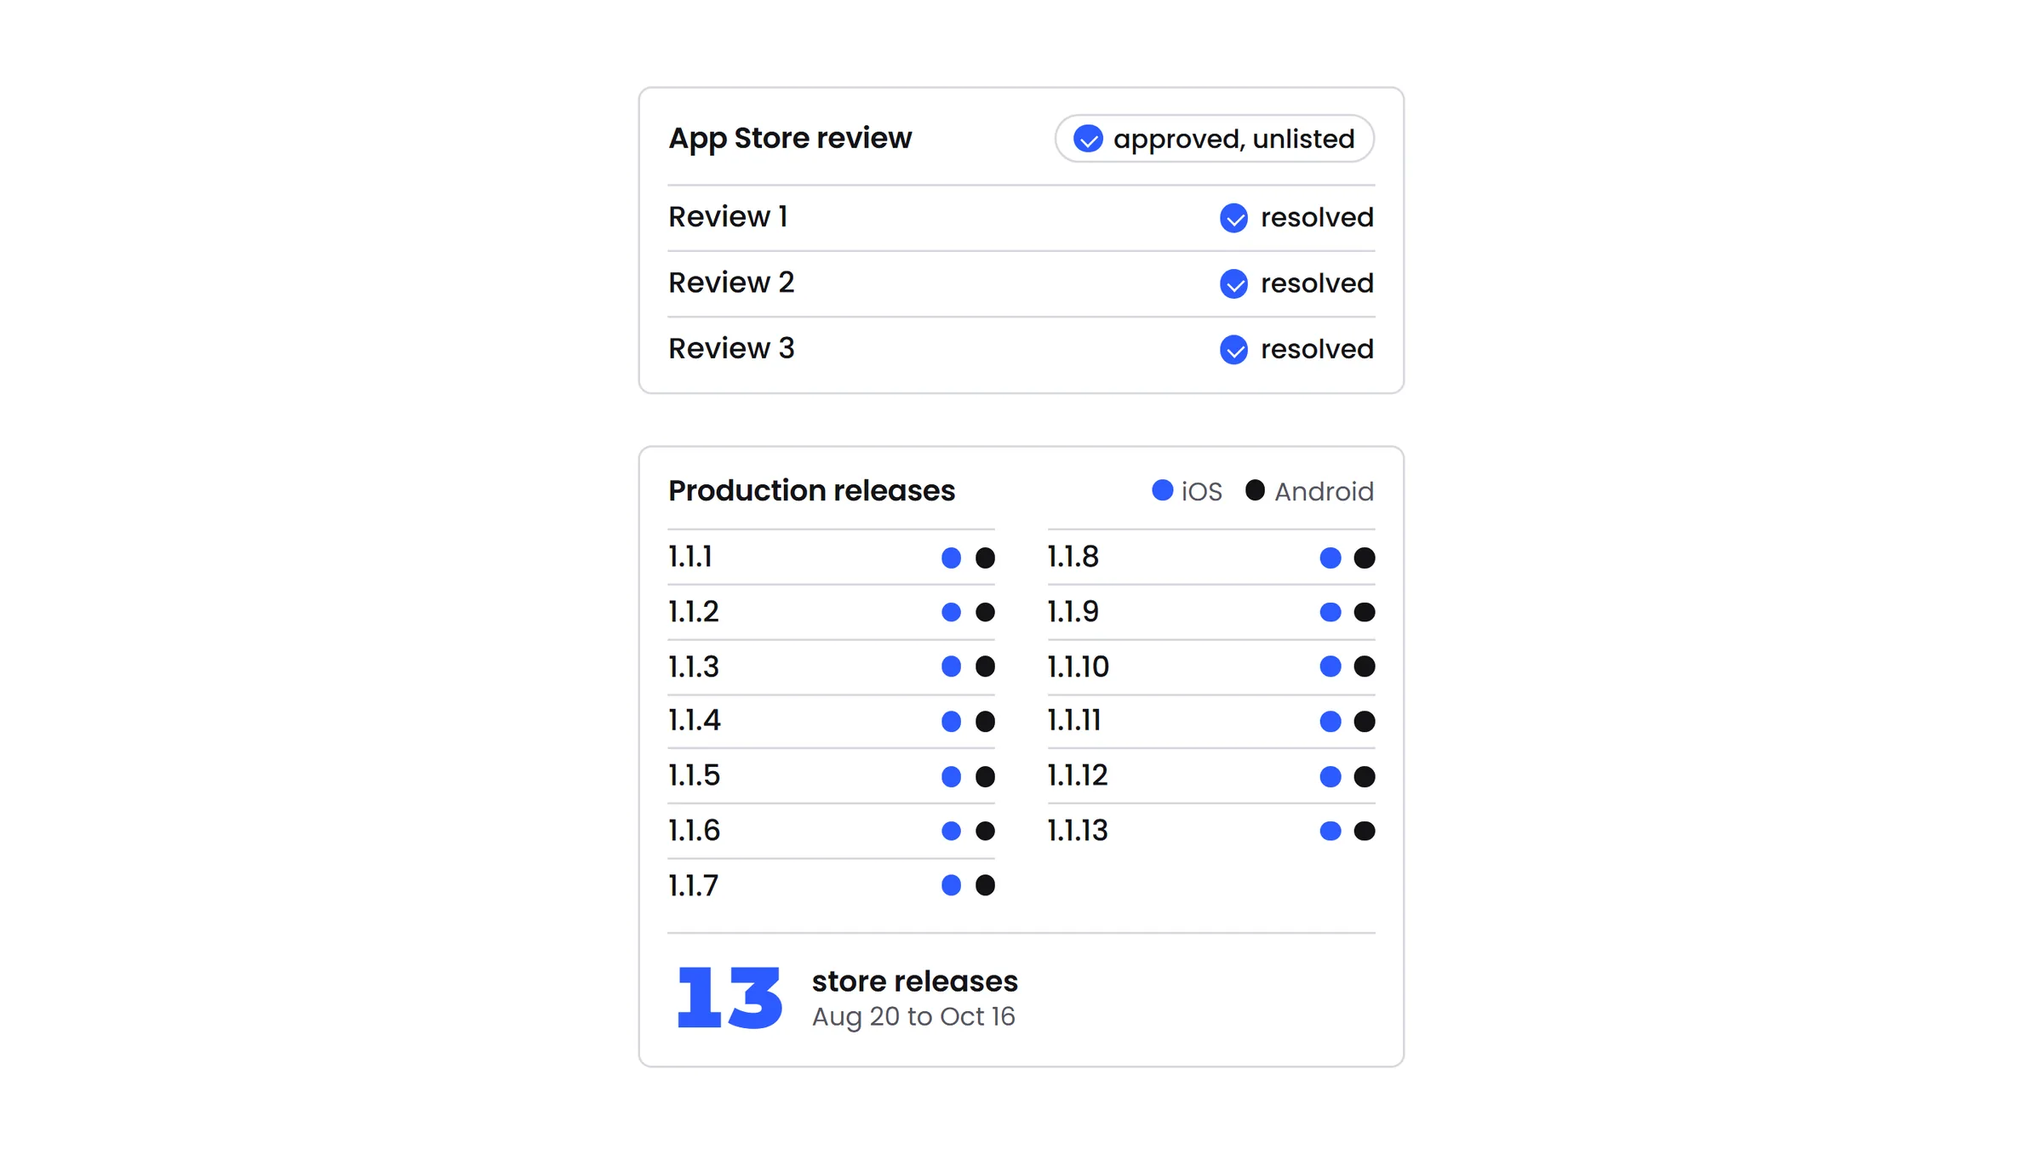
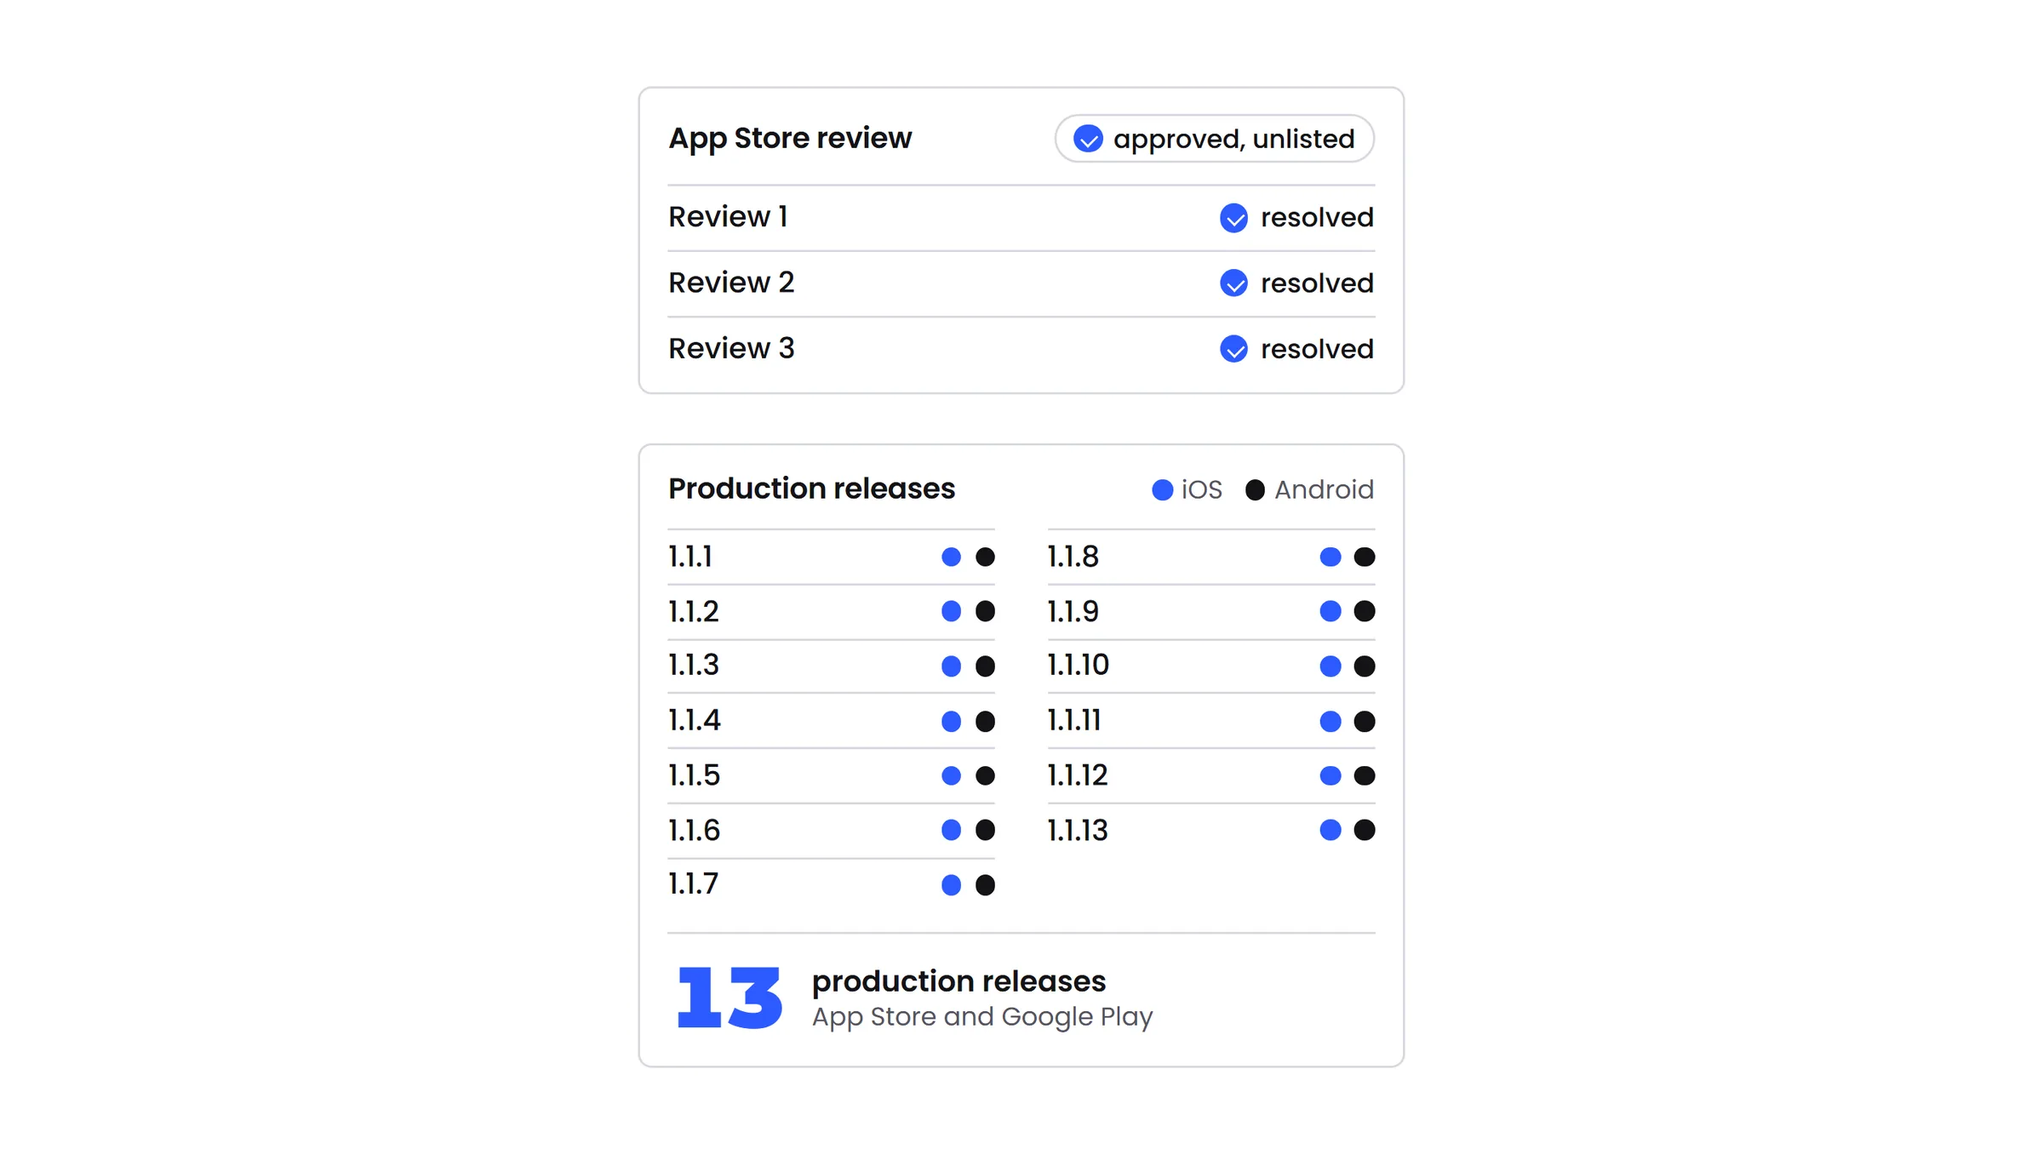
feat(content): results, not how long the work took
Every figure or phrase that measured build or delivery speed goes, on the
hero, the cases' figures and Results, About, the scenes and the earlier
cases: 11 days becomes 146/146 rollout checks and a second client on the
same platform, 13 store releases in two months becomes 13 production
releases, ArquiExpo's 48h becomes its 285 panel variants (its clock is now
the 100% cross-device ring), ai-portfolio keeps no figure, and the hero's
second figure is the 2M+ LifeMiles miles of the Samsung campaign led at
Incentiva Group. ChatFlow's results carry Colmaíz's authorized figures.
Times the end customer lives (a bot's follow-up) stay.

diff --git a/src/resources/about.tsx b/src/resources/about.tsx
@@ -32,11 +32,11 @@ export type About = {
 export const about: About = {
   intro: (
     <>
-      I build growth systems and the software that runs them. I've built complete marketing infrastructures: brand
-      identity, paid media, CRM automation, SEO systems, and AI content production, for companies
-      across construction, food, and retail. Most recently, I generated <Metric>338K+</Metric>{" "}
-      organic video views for Quick Metal Shop with zero ad spend, using an AI production pipeline I
-      designed and ran myself.
+      I build growth systems and the software that runs them. I've built complete marketing
+      infrastructures: brand identity, paid media, CRM automation, SEO systems, and AI content
+      production, for companies across construction, food, and retail. Most recently, I generated{" "}
+      <Metric>338K+</Metric> organic video views for Quick Metal Shop with zero ad spend, using an
+      AI production pipeline I designed and ran myself.
       <br />
       <br />
       My entry point into marketing wasn't a campaign. It was a crisis line.
@@ -56,9 +56,9 @@ export const about: About = {
       The answer has taken different shapes across different projects. An AI-powered WhatsApp
       chatbot that handled <Metric>85%</Metric> of inbound conversations autonomously for Artesa. A
       full marketing department built from scratch for Quick Metal Shop (brand identity, paid media,
-      SEO automation, CRM integration, and a custom-built trade show application deployed in{" "}
-      <Metric>48</Metric> hours). A complete rebranding and content automation system for Dakoma
-      Roofing, delivered as a one-person freelance engagement.
+      SEO automation, CRM integration, and a custom-built trade show application showcasing{" "}
+      <Metric>285</Metric> panel variants). A complete rebranding and content automation system for
+      Dakoma Roofing, delivered as a one-person freelance engagement.
       <br />
       <br />
       What connects all of it is the same approach: start with the operational reality, identify
@@ -69,9 +69,10 @@ export const about: About = {
       Today I work at the intersection of marketing strategy, AI tooling, and systems design. As
       Operations Manager at Incentiva Group, I lead the company's in-house software, a field-sales
       app, a client portal and a WhatsApp AI platform, built and audited with AI agents under my
-      direction. I don't run campaigns in isolation. I build the ecosystems that make campaigns compound over
-      time: automated content pipelines, real-time lead qualification, full-funnel tracking, and
-      creative production workflows that let a one-person operation output at agency scale.
+      direction. I don't run campaigns in isolation. I build the ecosystems that make campaigns
+      compound over time: automated content pipelines, real-time lead qualification, full-funnel
+      tracking, and creative production workflows that let a one-person operation output at agency
+      scale.
       <br />
       <br />
       The work I find most interesting lives at the edge of what's currently possible with AI, which
@@ -90,23 +91,27 @@ export const about: About = {
         description: incentivaRole.summary,
         achievements: [
           <Fragment key="platforms">
-            Took over three inherited production platforms that had little or no CI/CD and few or
-            no tests. I brought them under version control and automated pipelines, and grew their
-            test suites to more than <Metric>13,000</Metric> automated tests.
+            Took over three inherited production platforms that had little or no CI/CD and few or no
+            tests. I brought them under version control and automated pipelines, and grew their test
+            suites to more than <Metric>13,000</Metric> automated tests.
           </Fragment>,
           <Fragment key="multi-client">
             Architected the move of a single-client field-sales app to a multi-client platform, with
             a database per client and fail-closed tenant isolation. A second fintech client went
-            live <Metric>11 days</Metric> after the diagnosis started.
+            live on the same platform, and the rollout passed <Metric>146</Metric> of 146 checks.
           </Fragment>,
           <Fragment key="releases">
             Shipped the field-sales app&apos;s first iOS release and <Metric>13</Metric> production
-            versions across the App Store and Google Play in two months, resolving three App Store
-            review rejections.
+            versions across the App Store and Google Play, resolving three App Store review
+            rejections.
           </Fragment>,
           "Launched a DIRECTV dealer sales channel end to end: strategy, a Meta click-to-WhatsApp campaign with 7 ads and 62 creatives, and an AI sales assistant that pre-qualifies leads and reports conversions back to Meta.",
           "Led code and security audits across the company's products, covering more than 170 findings. I had them fixed test-first and added tenant-isolation tests, two-factor login and Key Vault-managed secrets.",
-          "Directed an AI CV-screening tool from spec to production in one afternoon. It scores CVs with a fixed rubric, resists prompt injection, and was calibrated against reference CVs.",
+          <Fragment key="samsung">
+            Led the Samsung × LifeMiles WhatsApp campaign: I rebuilt the running assistant, rewrote
+            its prompt and directed its fraud controls (deterministic IMEI validation and a second
+            model on identity documents). Buyers earned <Metric>2M+</Metric> LifeMiles miles.
+          </Fragment>,
           "Redesigned Incentiva's brand identity (a 78-page manual and a 357-file kit) and designed and built the new 28-page corporate website. I rolled the brand into the company's software, removing about 750,000 lines of unused template code and halving the client portal's initial bundle.",
           "Built proposals and cost models for Samsung, Ingredion, Wompi, Nequi and Mall Indiana, with verification scripts that check every figure in a quote against its source table.",
         ],
@@ -118,7 +123,7 @@ export const about: About = {
         description:
           "Joined as the company's first and sole marketing hire. There was no brand identity, no analytics infrastructure, and no digital strategy in place. I built everything from scratch and kept it running.",
         achievements: [
-          "Created the company's Brand Manual in the first week, defining the full visual identity (color palette, typography, tone of voice) that became the operational standard across the entire organization, including the ArquiExpo 2026 trade show stand, recognized as one of the strongest presences at the event.",
+          "Created the company's Brand Manual, defining the full visual identity (color palette, typography, tone of voice) that became the operational standard across the entire organization, including the ArquiExpo 2026 trade show stand, recognized as one of the strongest presences at the event.",
           "Deployed and configured Soro AI for automated SEO blog publishing across both the B2B site (Odoo CMS) and the B2C Shopify store, including custom code integration into each CMS. This established a compounding organic search engine that requires zero ongoing manual effort.",
           "Set up Google Analytics and Google Search Console from scratch, then linked Search Console directly to Soro AI to enable keyword-informed automated publishing.",
           "Launched and managed the company's LinkedIn presence; deployed Holo AI to automate brand-aligned thought leadership content at scale.",
@@ -128,9 +133,9 @@ export const about: About = {
           "Operated a high-velocity AI-augmented creative production workflow using Higgsfield (Kling 3.0, Seedance 2.0), ElevenLabs, Claude, CapCut, and DaVinci Resolve.",
           <Fragment key="arquiexpo-app">
             Designed, developed, and deployed a custom full-stack interactive gallery web
-            application in under <Metric>48</Metric> hours for ArquiExpo 2026. Built with Next.js,
-            deployed on Netlify, optimized for a vertical touchscreen interface, and fully
-            responsive across all devices including iOS Safari.
+            application for ArquiExpo 2026, showcasing <Metric>285</Metric> panel variants. Built
+            with Next.js, deployed on Netlify, optimized for a vertical touchscreen interface, and
+            fully responsive across all devices including iOS Safari.
           </Fragment>,
         ],
       },

diff --git a/src/components/workbench/scenes/work/KioskStand.tsx b/src/components/workbench/scenes/work/KioskStand.tsx
@@ -1,12 +1,14 @@
-// Scene (type 1): the ArquiExpo touchscreen alone, larger. A 48-hour clock
-// fills once while the app is built; then the vertical screen comes on and
+// Scene (type 1): the ArquiExpo touchscreen alone, larger. A ring of checks
+// fills once as the app passes on every device (iOS Safari included); then the vertical screen comes on and
 // runs it: a header, the grid gallery filling with its 285 tiles (the panel
 // variants count up), a tap opens one panel in single-image mode, a swipe
 // shows the next, and the grid returns. Two keys under the clock mark the
-// mode on screen.
+// mode on screen. (Until 2026-11-02 the ring was a build clock: the site
+// shows results, not how long the work took.)
 //
 // Facts: src/app/work/projects/quick-metal-shop-arquiexpo.mdx (metric
-// "48h|dev to deploy"; "Core Application Features": single-image mode and
+// "285|panel variants on one touchscreen"; "Cross-Platform Compatibility:
+// 100% (iOS Safari Resolved)"; "Core Application Features": single-image mode and
 // grid gallery mode; 285 panel variants, drawn as 285 tiles). The screen is
 // KioskScreen (the canvas of the home's BoothApp), with its panels drawn in
 // line: it comes on at step 3 and plays the app from step 4, on its own
@@ -16,7 +18,7 @@ import { CountUp, Scene } from "../Scene";
 import { KioskScreen } from "./KioskScreen";
 import s from "./kioskstand.module.scss";
 
-/** The 48 hours, one tick each, every twelfth one longer. */
+/** The ring's 48 ticks, every twelfth one longer. */
 const TICKS = Array.from({ length: 48 }, (_, k) => {
   const a = (k / 48) * Math.PI * 2 - Math.PI / 2;
   const inner = k % 12 === 0 ? 34 : 39;
@@ -61,10 +63,10 @@ export function KioskStand() {
           ))}
         </svg>
         <span className={s.hours}>
-          <CountUp value="48h" at={1} duration={2500} className={s.value} />
+          <CountUp value="100%" at={1} duration={2500} className={s.value} />
         </span>
       </div>
-      <span className={s.clockCaption}>dev to deploy</span>
+      <span className={s.clockCaption}>cross-device, iOS Safari included</span>
 
       <div className={s.count}>
         <CountUp value="285" at={4} duration={3000} className={s.countValue} />

diff --git a/src/components/workbench/scenes/work/TenantGate.tsx b/src/components/workbench/scenes/work/TenantGate.tsx
@@ -1,12 +1,12 @@
 // Scene (type 1): Scope's fail-closed tenant isolation. A signed token reaches
 // the campaign resolver, which reads the campaign from the token and opens
 // that client's own database; a request for the other client's data is
-// refused; then the days to the second client count up.
+// refused; then the rollout's passed checks count up.
 //
 // Facts: src/app/work/projects/scope-multi-client-platform.mdx ("one database
 // per client", "a campaign-resolution layer that picks the database from the
-// signed token and fails closed", "11 days", "146 checks passed and 0
-// failures"). The clients are placeholders ("Client A", "Client B"): no real
+// signed token and fails closed", "146 checks passed and 0 failures", "a
+// second fintech client went live on the same platform"). The clients are placeholders ("Client A", "Client B"): no real
 // campaign, screen or data. Portrait (4:5) only.
 import { CountUp, Scene } from "../Scene";
 import s from "./tenantgate.module.scss";
@@ -75,10 +75,10 @@ export function TenantGate() {
       </div>
 
       <div className={s.result}>
-        <CountUp value="11 days" at={4} className={s.value} duration={1300} />
+        <CountUp value="146/146" at={4} className={s.value} duration={1300} />
         <span className={s.caption}>
-          to a second client live
-          <span className={s.note}>146 checks passed, 0 failures</span>
+          rollout checks passed
+          <span className={s.note}>a second client live on one platform</span>
         </span>
       </div>
     </Scene>

diff --git a/src/components/workbench/scenes/work/PromptDeploy.tsx b/src/components/workbench/scenes/work/PromptDeploy.tsx
@@ -1,11 +1,11 @@
 // Scene (type 2): building this site with AI agents. A prompt window types
 // the four steps of the method, one per line, and each is answered and
-// ticked; then a deploy line runs to its end and the deploy time pops.
+// ticked; then a deploy line runs to its end and the site is live.
 //
 // Facts: src/app/work/projects/ai-portfolio.mdx (the four ### steps of "The
 // Methodology: AI as a Development Team": Foundation Selection, Prompt
 // Engineering as Specification Writing, Iterative Debugging, Continuous
-// Deployment; metric "<2min|deploy time"). Set in Poppins: no monospace, no
+// Deployment: "every approved change deploys automatically"). Set in Poppins: no monospace, no
 // tool's interface or logo. Portrait (4:5) only.
 import type { CSSProperties } from "react";
 import { Scene, Typed, typeTime } from "../Scene";
@@ -59,8 +59,8 @@ export function PromptDeploy() {
           <i />
         </span>
         <span className={s.time}>
-          <span className={s.value}>&lt;2min</span>
-          <span className={s.caption}>deploy time</span>
+          <span className={s.value}>Live</span>
+          <span className={s.caption}>on every approved change</span>
         </span>
       </div>
     </Scene>

diff --git a/src/components/workbench/scenes/work/MarketingSteps.tsx b/src/components/workbench/scenes/work/MarketingSteps.tsx
@@ -1,5 +1,5 @@
 // Scenes (type 4 steps): a marketing department built from zero, in the
-// order of the case's "Strategic Solution". 1, week 1: the brand manual
+// order of the case's "Strategic Solution". 1, the foundation: the brand manual
 // (palette, type, tone, usage); 2, SEO automation: Soro AI writes an article
 // and it is published on both storefronts, the Odoo site (B2B) and the
 // Shopify store (B2C); 3, LinkedIn with Holo AI: posts drafted and set into
@@ -20,7 +20,7 @@ const k = (n: number) => ({ "--k": n }) as CSSProperties;
 /** The tracker's events, lit one after another. */
 const EVENTS = Array.from({ length: 12 }, (_, n) => ({ id: `e${n}`, n }));
 
-/** Step 1: the brand manual, opened in week 1. */
+/** Step 1: the brand manual, the foundation. */
 export function BrandManualStep() {
   return (
     <Scene className={s.scene} steps={[700, 1000, 1100, 1100, 3200]} loop>
@@ -44,7 +44,7 @@ export function BrandManualStep() {
           </span>
         </div>
       </div>
-      <span className={s.week}>Week 1</span>
+      <span className={s.week}>Foundation</span>
     </Scene>
   );
 }

diff --git a/src/components/workbench/scenes/work/StoreReleases.tsx b/src/components/workbench/scenes/work/StoreReleases.tsx
@@ -4,8 +4,8 @@
 // on both stores, one after another, and the count comes up.
 //
 // Facts: src/app/work/projects/scope-ios-launch.mdx ("three App Store review
-// rejections", "unlisted distribution", "13 versions (1.1.1 to 1.1.13)",
-// "between Aug 20 and Oct 16"). Drawn in line: no store interface or logo.
+// rejections", "unlisted distribution", "13 versions (1.1.1 to 1.1.13)").
+// Drawn in line: no store interface or logo.
 // Portrait (4:5) only.
 import type { CSSProperties } from "react";
 import { CountUp, Scene } from "../Scene";
@@ -68,8 +68,8 @@ export function StoreReleases() {
         <span className={s.total}>
           <CountUp value="13" at={4} className={s.value} duration={1200} />
           <span className={s.caption}>
-            store releases
-            <span className={s.note}>Aug 20 to Oct 16</span>
+            production releases
+            <span className={s.note}>App Store and Google Play</span>
           </span>
         </span>
       </div>

diff --git a/src/components/workbench/about/Film.tsx b/src/components/workbench/about/Film.tsx
@@ -25,8 +25,8 @@ const TAGS: { value: string; caption: string }[] = [
     caption: "of conversations handled by the bot, Artesa Panadería",
   },
   {
-    value: "48 h",
-    caption: "to design, build and deploy the ArquiExpo 2026 gallery app",
+    value: "285",
+    caption: "panel variants in the ArquiExpo 2026 touchscreen gallery app",
   },
   {
     value: "2023",
@@ -67,7 +67,7 @@ export function Film() {
             <p>
               The answer has taken different shapes. An AI-powered WhatsApp chatbot that handled 85%
               of inbound conversations autonomously for Artesa. A full marketing department built
-              from scratch for Quick Metal Shop, down to a trade show app deployed in 48 hours. A
+              from scratch for Quick Metal Shop, down to a touchscreen gallery app for its stand. A
               complete rebranding and content automation system for Dakoma Roofing.
             </p>
             <p>

diff --git a/src/components/workbench/home/Bench.tsx b/src/components/workbench/home/Bench.tsx
@@ -294,14 +294,17 @@ export function Bench() {
           kind="tag"
           place={{ x: 26, y: 73, w: 26, mx: 0, my: 0, mw: 100, depth: 1.2, bob: 4.3 }}
         >
-          <Tag value="13" caption="store releases in two months" />
+          <Tag value="13" caption="production releases, iOS and Android" />
         </Slot>
         <Slot
           index={7}
           kind="tag"
           place={{ x: 56, y: 79, w: 27, mx: 0, my: 0, mw: 100, depth: 1, bob: 4.9 }}
         >
-          <Tag value="11 days" caption="to a second client on one platform" />
+          <Tag
+            value="2M+"
+            caption="LifeMiles miles in a Samsung campaign I led at Incentiva Group"
+          />
         </Slot>
       </div>
     </div>

diff --git a/src/components/workbench/scenes/work/kioskstand.module.scss b/src/components/workbench/scenes/work/kioskstand.module.scss
@@ -1,5 +1,5 @@
 // Scene: KioskStand (see KioskStand.tsx). Portrait (4:5, 100 x 125 cqi).
-// Drawn with hairlines on the sheet's tokens; the clock's hours light in
+// Drawn with hairlines on the sheet's tokens; the ring's ticks light in
 // cobalt, one tick at a time. Keep this file ASCII-only.
 @use "../../shared" as *;
 @use "../scene" as *;
@@ -71,7 +71,7 @@
   background: var(--sc-obj);
 }
 
-// The 48-hour clock: 48 ticks that light once, the hours counting up ----------------
+// The compatibility ring: 48 ticks that light once, the share counting up -----------
 
 .clock {
   left: 64cqi;

diff --git a/src/components/workbench/scenes/work/tenantgate.module.scss b/src/components/workbench/scenes/work/tenantgate.module.scss
@@ -230,8 +230,9 @@
   border-top: 1px solid var(--sc-line);
 }
 
+// "146/146" is wider than the figure that stood here, so it is set smaller.
 .value {
-  @include figure(10.5cqi);
+  @include figure(8cqi);
   white-space: nowrap;
 }
 
